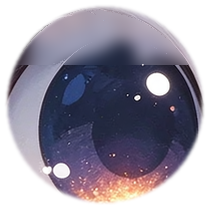
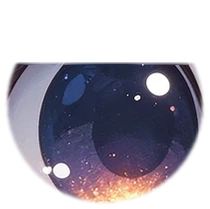
fix(pet): 视线方向回正 / 眼瞳切图补齐 / 尾巴自然摆动 / 尺寸位置按图
- 视线：改回不取负（实测鼠标在左 → gx 为负 → 虹膜往左），头和眼现在同向
- 眼瞳：虹膜部件顶部那条浅色带（其实是眼球上沿）从虹膜切走、贴回眼白层，
  虹膜变成完整圆形；高光改为跟虹膜同速，不再出现错位裂隙
- 眼白：跟着重画，虹膜移动时露出的是白而不是暗色球面
- 尾巴：主摆 0.26 + 副波 0.10（相位错开），抬起 0.045±0.018、弯曲 0.15±0.022，
  静默时是慢慢晃而不是机械摆动
- 尺寸位置：宽度取视口 13%（150~260px），贴右下角 right 12 / bottom 10

Changed region(s): [[0.0571, 0.0287, 0.9143, 0.3158]]

diff --git a/assets/app.js b/assets/app.js
@@ -2415,7 +2415,9 @@
 
     /* ---- 恢复上次的位置与大小 ---- */
     var saved = nekoLoad();
-    nekoApplySize(saved && saved.w ? saved.w : (window.innerWidth < 760 ? 200 : 280));
+    var vw = window.innerWidth || 1440;
+    var auto = Math.round(Math.min(260, Math.max(150, vw * 0.13)));
+    nekoApplySize(saved && saved.w ? saved.w : auto);
     if (saved && typeof saved.x === 'number') nekoPlace(saved.x, saved.y);
 
     /* ---- 延迟挂载：等页面空闲再拉 4.6MB 的部件 ---- */
@@ -2563,9 +2565,10 @@
       var base = api.base;
       if (base) {
         /* 尾巴：慢扫 + 一点不规则；抬起角度也跟着轻轻起伏 */
-        base.ts = 0.42 * Math.sin(t * 0.62) + 0.16 * Math.sin(t * 1.47 + 1.1);
-        base.tl = 0.05 + 0.03 * Math.sin(t * 0.44 + 0.6);
-        base.tc = 0.16 + 0.025 * Math.sin(t * 0.31);
+        /* 尾巴：主摆 0.26 + 副波 0.10（不同周期），抬起/弯曲各用更慢的周期，相位错开 */
+        base.ts = 0.26 * Math.sin(t * 0.55) + 0.10 * Math.sin(t * 1.31 + 2.1);
+        base.tl = 0.045 + 0.018 * Math.sin(t * 0.33 + 0.4);
+        base.tc = 0.15 + 0.022 * Math.sin(t * 0.27);
         /* 身体：极轻的重心左右转移，和尾巴反相，看起来才像"活着" */
         base.bx = 0.018 * Math.sin(t * 0.37 + 2.0);
       }

diff --git a/assets/neko/index.html b/assets/neko/index.html
@@ -345,7 +345,7 @@ function drawEye(side, kind, open){
   const e = EYE[side];
   const gx = clamp(P.ParamEyeBallX / 100, -1, 1);
   const gy = clamp(P.ParamEyeBallY / 100, -1, 1);
-  const k = kind === 'iris' ? 1 : (kind === 'highlight' ? 0.62 : 0.06);
+  const k = kind === 'iris' ? 1 : (kind === 'highlight' ? 1 : 0.06);
   const m = Math.max(Math.abs(gx), Math.abs(gy));
 
   ctx.save();
@@ -363,8 +363,7 @@ function drawEye(side, kind, open){
   if (k > 0.05){
     // 最大位移留足外圈余量：位移上限 < 眼白半径 - 虹膜半径
     const sx = e.shiftX * k, sy = e.shiftY * k;
-    /* 虹膜的 x 方向与 ParamAngleX 相反，取负号，保证头往右转眼也往右看 */
-    ctx.translate(-gx * sx, gy * sy);
+    ctx.translate(gx * sx, gy * sy);
     // 球面感：偏向极限时虹膜轻微收小，避免贴边被裁
     const sc = 1 - 0.075 * m * k;
     ctx.scale(sc, sc);

diff --git a/assets/style.css b/assets/style.css
@@ -2473,8 +2473,8 @@ pre, pre > code, .article :not(pre) > code, .desk-preview :not(pre) > code {
    ============================================================ */
 .neko-pet {
   position: fixed; z-index: 28;   /* 压在回顶按钮(30)下面 */
-  right: 22px; bottom: 92px;
-  width: 300px; height: 340px;
+  right: 12px; bottom: 10px;
+  width: 190px; height: 216px;
   /* 尺寸靠 JS 写 --neko-w / --neko-h，缩放时只改这两个变量 */
   pointer-events: none;
   touch-action: none;
